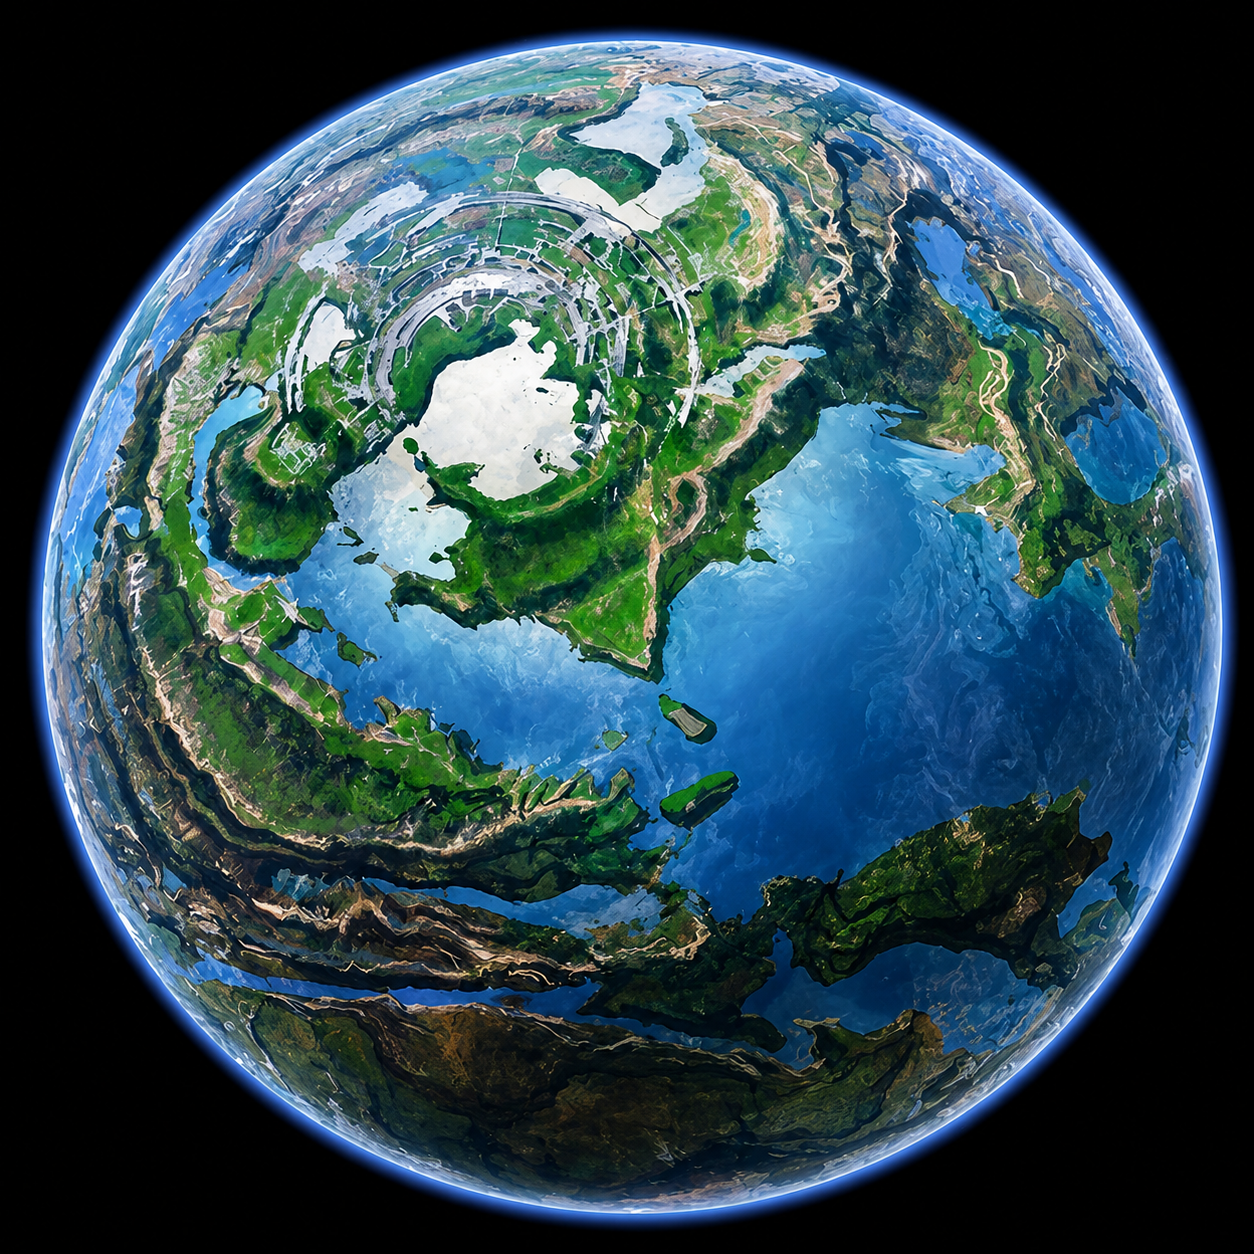
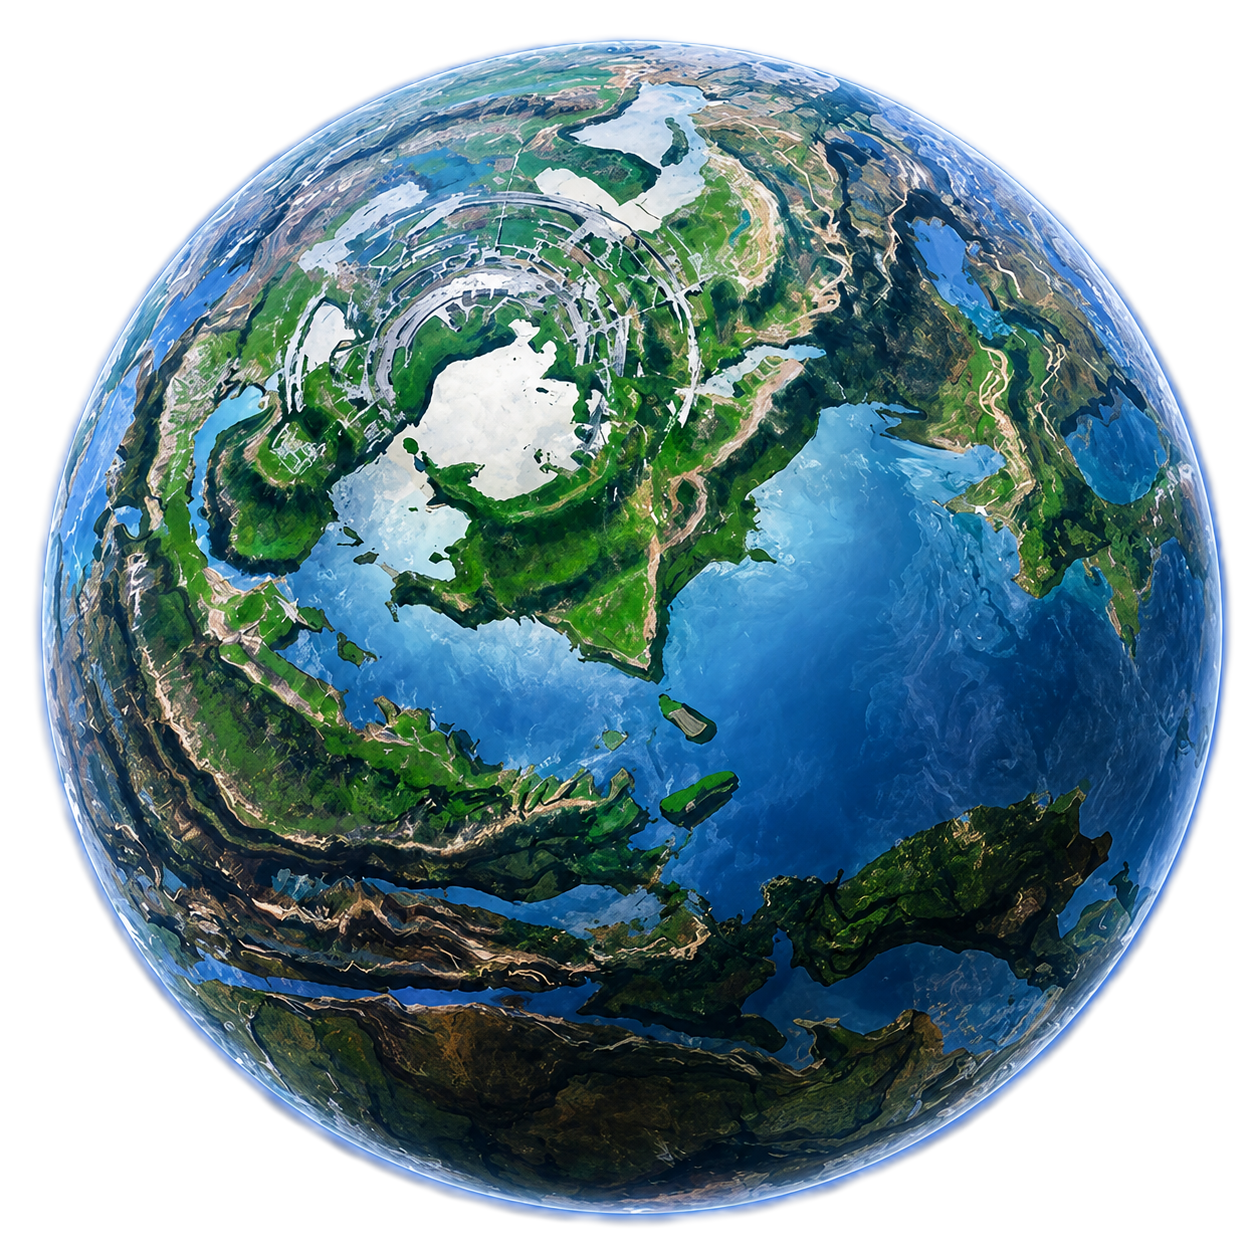
update

diff --git a/videogame-food/style.css b/videogame-food/style.css
@@ -810,6 +810,12 @@ section.page-5 .content-3 {
     text-align: center;
 }
 
+body {
+    background-image: url("images/map-gif.gif");
+    background-size: cover;
+    background-position: center;
+}
+
 circle {
     background-color: black;
 }
@@ -817,48 +823,6 @@ circle {
 
 h1 {
     color: white;
-}
-
-#rect text {
-    pointer-events: none;
-}
-
-
-
-svg {
-    overflow: visible;
-    height: 100%;
-    transform: translateZ(0);
-    font-family: "Audiowide", sans-serif;
-}
-
-path {
-    stroke-width: 2;
-    stroke: gray;
-}
-
-a {
-    color: #88ce02;
-    text-decoration: none;
-}
-
-a:hover {
-    text-decoration: underline;
-}
-
-#div {
-    width: 120px;
-    height: 60px;
-    pointer-events: none;
-    background-color: #aa00ee;
-    color: black;
-    font-family: "Audiowide", sans-serif;
-    text-align: center;
-    line-height: 60px;
-    position: absolute;
-    top: 30%;
-    left: 60%;
-    font-size: 32px;
 }
 
 .page-7 p {
@@ -881,4 +845,106 @@ a:hover {
     padding: 20px;
     color: white;
     background-color: black;
+}
+
+.burger-btn {
+    font-family: "Audiowide", sans-serif;
+    font-size: 35px;
+    text-align: center;
+    width: 10%;
+    padding: 20px;
+    color: white;
+    background-color: black;
+    border: 2px solid white;
+    top: 10%;
+    left: 10%;
+    position: absolute;
+}
+
+.page-10 img {
+    width: 16%;
+    height: 80%;
+    object-fit: cover;
+    position: absolute;
+    bottom: 10%;
+    right: 10%;
+}
+
+.page-10 h1 {
+    font-family: "Audiowide", sans-serif;
+    font-size: 50px;
+    margin: 1rem;
+    font-weight: bold;
+    justify-content: center;
+    align-items: center;
+    text-align: center;
+    color: white;
+}
+
+.page-11 img {
+    width: 16%;
+    height: 72%;
+    object-fit: cover;
+    position: absolute;
+    bottom: 10%;
+    right: 40%;
+}
+
+.page-12 img {
+    width: 16%;
+    height: 70%;
+    position: absolute;
+    bottom: 30%;
+    right: 10%;
+}
+
+.spinning-image {
+    width: 200px;
+    height: 200px;
+    animation: spin 4s linear infinite; 
+}
+
+@keyframes spin {
+    from {
+        transform: rotate(0deg);
+    }
+    to {
+        transform: rotate(360deg);
+    }
+}
+
+.page-12 p {
+    font-family: "Audiowide", sans-serif;
+    font-size: 30px;
+    color: white;
+    justify-content: center;
+    align-items: center;
+    text-align: center;
+    position: absolute;
+    bottom: 30%;
+    right: 10.5%;
+}
+
+.page-11 p {
+    font-family: "Audiowide", sans-serif;
+    font-size: 30px;
+    color: white;
+    justify-content: center;
+    align-items: center;
+    text-align: center;
+    position: absolute;
+    bottom: 5%;
+    right: 41.5%;
+}
+
+.page-10 p {
+    font-family: "Audiowide", sans-serif;
+    font-size: 30px;
+    color: white;
+    justify-content: center;
+    align-items: center;
+    text-align: center;
+    position: absolute;
+    bottom: 1%;
+    right: 12.3%;
 }

diff --git a/videogame-food/map.html b/videogame-food/map.html
@@ -10,8 +10,29 @@
 </head>
 
 <body>
+ <section class="page-10">
+    <a href="tab1.html" class="starfield-link">
+    <img class="spinning-image" src="images/planet-1.png" alt="planet-1">
+    </a>
+    <p>[Starfield]</p>
+  </section>
+
+  <section class="page-11">
+    <a href="tab2.html" class="cyberpunk-link">
+      <img class="spinning-image" src="images/planet-2.png" alt="planet-2">
+      <p>[Cyberpunk]</p>
+      </a>
+  </section>
+
+  <section class="page-12">
+    <a href="tab3.html" class="outer-worlds-link">
+      <img class="spinning-image" src="images/planet-3.png" alt="planet-3">
+      <p>[Outer Worlds]</p>
+    </a>
+  </section>
+
   <header>
-    <button class="burger-btn" onclick="toggleDrawer()">☰ Open Menu</button>
+    <button class="burger-btn" onclick="toggleDrawer()">☰</button>
     <div id="nav-drawer" class="drawer">
       <button class="close-btn" onclick="toggleDrawer()">× Close</button>
       <nav class="drawer-content">
@@ -45,47 +66,6 @@
       object-fit: cover;
     }
   </style>
-
-  <body class="map">
-    <h1>/// MAP \\\</h1>
-    <svg width="100%" height="100%" viewBox="-20 0 557 190" id="svg">
-      <circle cx="100" cy="100" r="3" />
-      <circle cx="300" cy="20" r="3" />
-      <path id="path"
-        d="M9,100c0,0,18.53-41.58,49.91-65.11c30-22.5,65.81-24.88,77.39-24.88c33.87,0,57.55,11.71,77.05,28.47c23.09,19.85,40.33,46.79,61.71,69.77c24.09,25.89,53.44,46.75,102.37,46.75c22.23,0,40.62-2.83,55.84-7.43c27.97-8.45,44.21-22.88,54.78-36.7c14.35-18.75,16.43-36.37,16.43-36.37" />
-      <g id="rect">
-        <rect width="85" height="30" fill="dodgerblue" />
-        <text x="10" y="19" font-size="14">SVG &lt;rect&gt;</text>
-      </g>
-    </svg>
-  </body>
-
-  <div id="div">#div</div>
-
-  <script src="https://cdn.jsdelivr.net/npm/gsap@3.15/dist/gsap.min.js"></script>
-
-  <script src="https://cdn.jsdelivr.net/npm/gsap@3.15/dist/MotionPathPlugin.min.js"></script>
-  <script>
-
-    //register the plugin (just once)
-    gsap.registerPlugin(MotionPathPlugin);
-
-    gsap.to("#rect", {
-      duration: 5,
-      repeat: false,
-      repeatDelay: 3,
-      yoyo: false,
-      ease: "power1.inOut",
-      motionPath: {
-        path: "#path",
-        align: "#path",
-        autoRotate: true,
-        alignOrigin: [0.5, 0.5]
-      }
-    });
-
-
-
   </script>
   <script src="script.js"></script>
 </body>